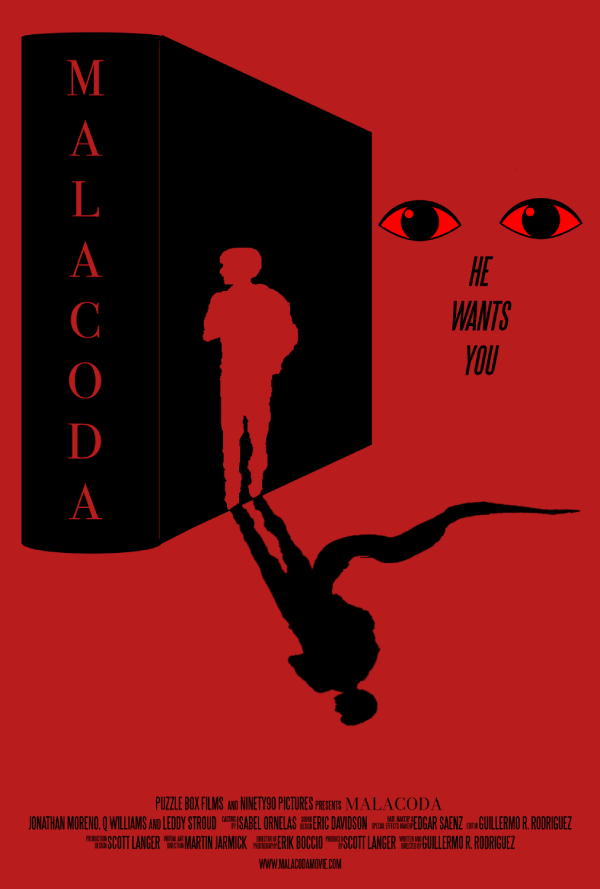
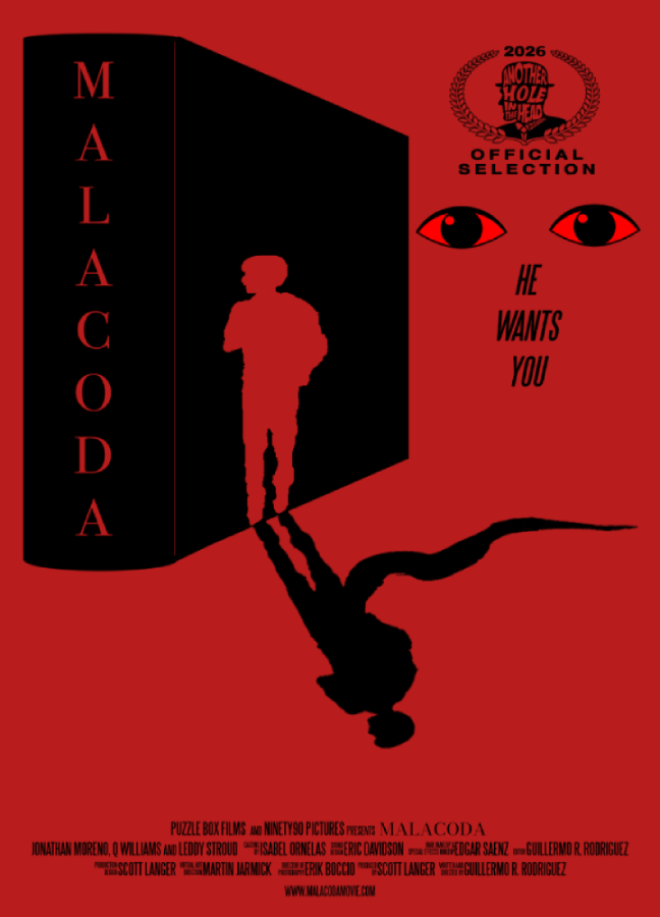
Adding the festivals section

diff --git a/app/page.tsx b/app/page.tsx
@@ -21,6 +21,7 @@ export default function Home() {
                         <div className="hidden md:block">
                             <div className="ml-10 flex items-baseline space-x-8">
                                 <a href="#synopsis" className="hover:text-red-400 transition-colors malacoda-red">Synopsis</a>
+                                <a href="#festivals" className="hover:text-red-400 transition-colors malacoda-red">Festivals</a>
                                 <a href="#cast" className="hover:text-red-400 transition-colors malacoda-red">Cast & Crew</a>
                                 <a href="#media" className="hover:text-red-400 transition-colors malacoda-red">Media</a>
                                 <a href="#gallery" className="hover:text-red-400 transition-colors malacoda-red">Gallery</a>
@@ -93,6 +94,40 @@ export default function Home() {
                                     <ImageIcon className="w-16 h-16 mx-auto mb-4"/>
                                     <p>Official Poster</p>
                                 </div>*/}
+                            </div>
+                        </div>
+                    </div>
+                </div>
+            </section>
+
+            {/* Festival Section */}
+            <section id="festivals" className="py-20 bg-black">
+                <div className="max-w-7xl mx-auto px-4 sm:px-6 lg:px-8">
+                    <h2 className="text-4xl font-bold mb-12 text-center text-red-500 font-bodoni">Festivals</h2>
+
+                    {/* Festivals */}
+                    <div className="mb-16">
+                        <div className="grid md:grid-cols-1 lg:grid-cols-1 gap-8">
+                            <div className="text-center group max-w-sm mx-auto">
+                                <div
+                                    className="aspect-square rounded-lg mb-4 overflow-hidden group-hover:scale-105 transition-transform"
+                                    style={{
+                                        backgroundImage: `url("festival/ahith_500_white.png")`,
+                                        backgroundSize: 'cover',
+                                        backgroundPosition: 'center',
+                                        backgroundSize: '99%',
+                                        backgroundRepeat: 'no-repeat'
+                                    }}>
+
+                                </div>
+                                <h4 className="font-semibold text-lg">Another Hole in the Head</h4>
+                                <br />
+                                <br />
+                                <p className="text-gray-400 text-left">Presented by SF IndieFest, this San Francisco-based genre film festival is a highly respected, cinematic excursion featuring projects in Science Fiction, Fantasy, Horror, and beyond.</p>
+                                <br />
+                                <p className="text-gray-400 text-left">Malacoda the short will be screened as part of the Short Film Collection 5 (Dark Rainbow). The screening will take place Sun, Dec 6th, 12:30 PM @ Balboa Theater Auditorium 2.</p>
+                                <br />
+                                <p className="text-gray-400 text-left">Tickets can be purchased <a className="text-red-500 hover:text-red-400 underline" href="https://holehead2026.eventive.org/festival_theater_schedule/6aea5294f18c159201c10fd5/tickets">here</a></p>
                             </div>
                         </div>
                     </div>
